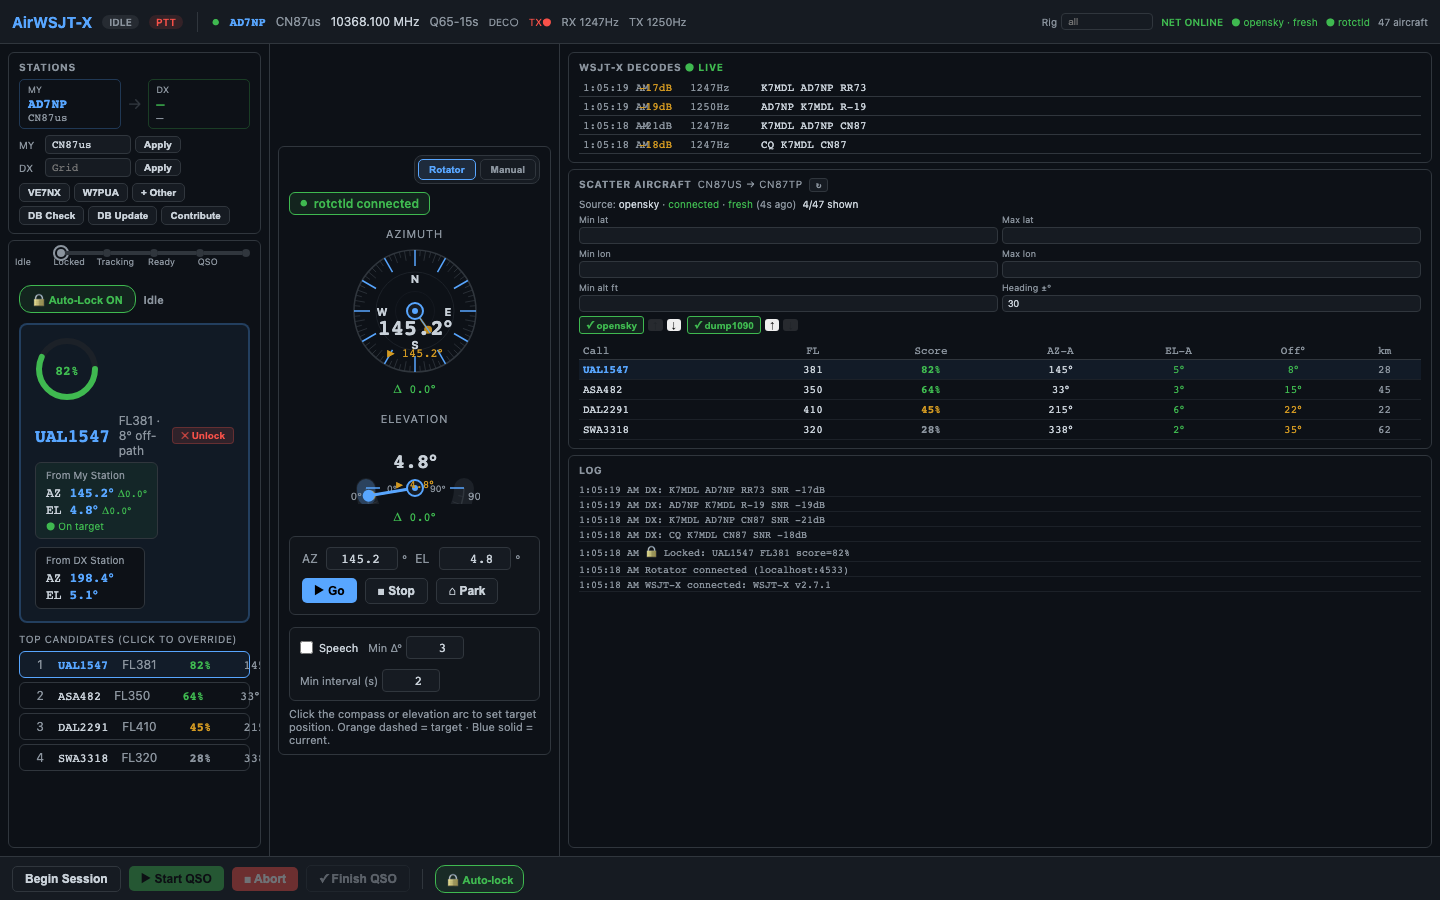
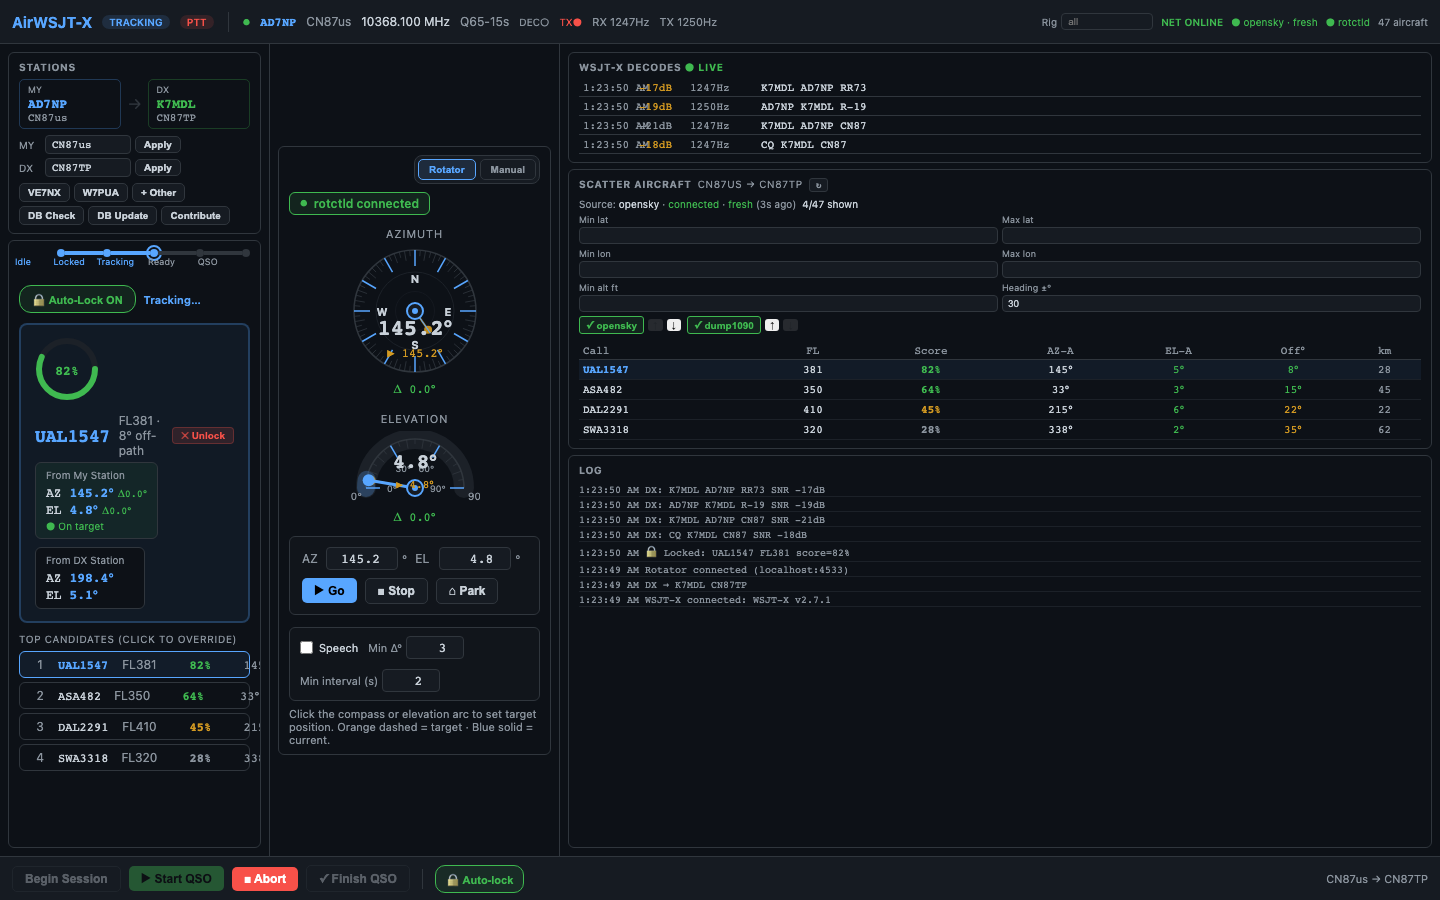
Fix elevation arc rendering: needle was pointing downward
The SVG y-axis increases downward, but elToXY was adding the sin
component to cy instead of subtracting it, causing the elevation
needle and arc fill to render below the baseline instead of above.

Also flipped the SVG arc sweep-flag from 0 to 1 so the background
arc sweeps upward (rainbow shape) to match the corrected geometry.

Both desktop (RotatorPanel) and mobile (MobileApp) ElevationArc
components are fixed.

diff --git a/src/RotatorPanel.tsx b/src/RotatorPanel.tsx
@@ -197,7 +197,7 @@ function ElevationArc({
   // 0° = left end, 90° = top centre
   function elToXY(el: number, r: number) {
     const rad = Math.PI - (el / 90) * Math.PI;
-    return { x: cx + r * Math.cos(rad), y: cy + r * Math.sin(rad) };
+    return { x: cx + r * Math.cos(rad), y: cy - r * Math.sin(rad) };
   }
 
   // Arc path from 0° to 90°
@@ -244,9 +244,9 @@ function ElevationArc({
     <svg width={width} height={height} style={{ cursor: onClick ? "crosshair" : "default" }}
       onClick={handleClick}>
       {/* Background arc */}
-      <path d={`M ${arcStart.x} ${arcStart.y} A ${R} ${R} 0 0 0 ${arcEnd.x} ${arcEnd.y}`}
+      <path d={`M ${arcStart.x} ${arcStart.y} A ${R} ${R} 0 0 1 ${arcEnd.x} ${arcEnd.y}`}
         fill="none" stroke="#1c2128" strokeWidth={20} strokeLinecap="round" />
-      <path d={`M ${arcStart.x} ${arcStart.y} A ${R} ${R} 0 0 0 ${arcEnd.x} ${arcEnd.y}`}
+      <path d={`M ${arcStart.x} ${arcStart.y} A ${R} ${R} 0 0 1 ${arcEnd.x} ${arcEnd.y}`}
         fill="none" stroke="#30363d" strokeWidth={1.5} />
 
       {/* Fill arc up to current elevation */}
@@ -254,7 +254,7 @@ function ElevationArc({
         const fillEnd = elToXY(Math.max(0.5, current), R);
         return (
           <path
-            d={`M ${arcStart.x} ${arcStart.y} A ${R} ${R} 0 ${current > 45 ? 1 : 0} 0 ${fillEnd.x} ${fillEnd.y}`}
+            d={`M ${arcStart.x} ${arcStart.y} A ${R} ${R} 0 ${current > 45 ? 1 : 0} 1 ${fillEnd.x} ${fillEnd.y}`}
             fill="none" stroke="rgba(88,166,255,0.25)" strokeWidth={18} strokeLinecap="round"
           />
         );

diff --git a/src/MobileApp.tsx b/src/MobileApp.tsx
@@ -121,7 +121,7 @@ function ElevationArc({
 
   function elToXY(el: number, r: number) {
     const rad = Math.PI - (el / 90) * Math.PI;
-    return { x: cx + r * Math.cos(rad), y: cy + r * Math.sin(rad) };
+    return { x: cx + r * Math.cos(rad), y: cy - r * Math.sin(rad) };
   }
 
   const arcStart = elToXY(0, R);
@@ -147,9 +147,9 @@ function ElevationArc({
 
   return (
     <svg width={width} height={height} style={{ userSelect: "none" }}>
-      <path d={`M ${arcStart.x} ${arcStart.y} A ${R} ${R} 0 0 0 ${arcEnd.x} ${arcEnd.y}`}
+      <path d={`M ${arcStart.x} ${arcStart.y} A ${R} ${R} 0 0 1 ${arcEnd.x} ${arcEnd.y}`}
         fill="none" stroke="#1c2128" strokeWidth={16} strokeLinecap="round" />
-      <path d={`M ${arcStart.x} ${arcStart.y} A ${R} ${R} 0 0 0 ${arcEnd.x} ${arcEnd.y}`}
+      <path d={`M ${arcStart.x} ${arcStart.y} A ${R} ${R} 0 0 1 ${arcEnd.x} ${arcEnd.y}`}
         fill="none" stroke="#30363d" strokeWidth={1.5} />
       {ticks}
       {current !== null && (
